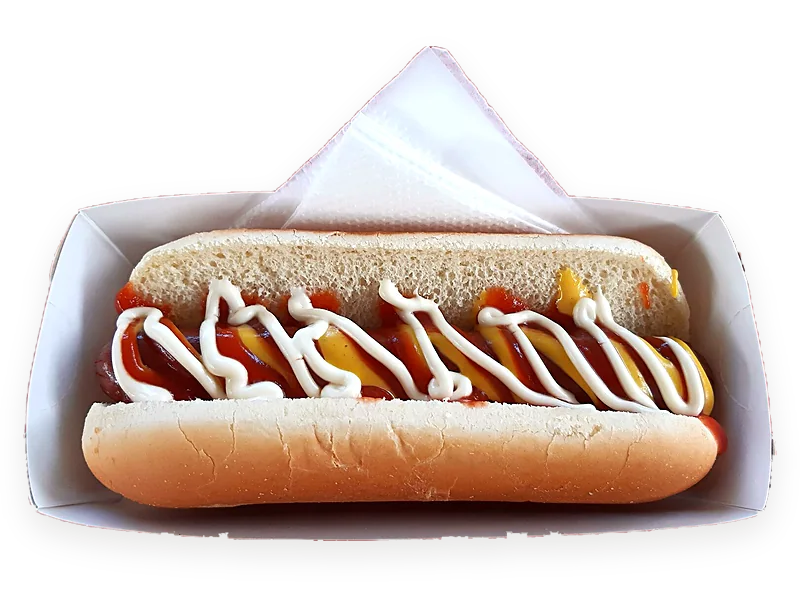
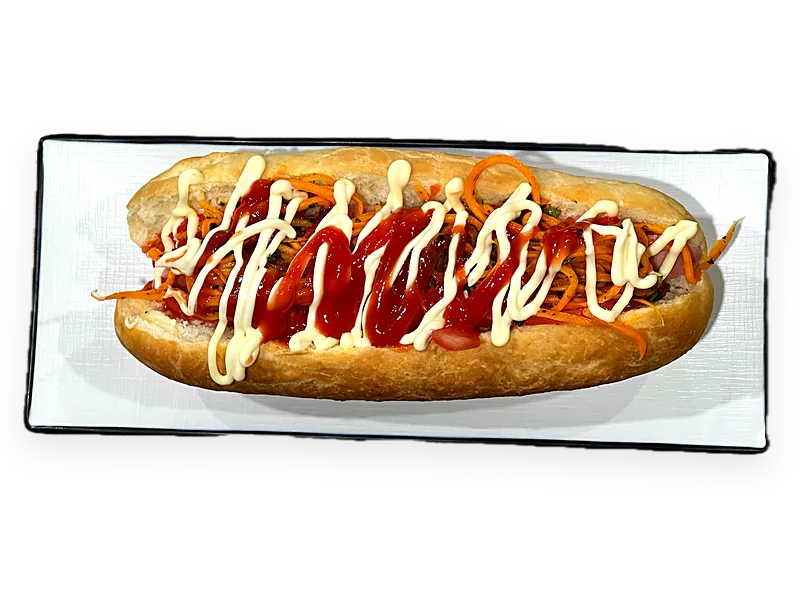
Hot-dog 2 ta rasm (surib ko'rish), rasmni bosganda kattalashadi, osh rasmi tovog'i bilan
Claude-Session: https://claude.ai/code/session_01YBhqNhXRUafQR9ABuiBpkF

diff --git a/app.js b/app.js
@@ -66,9 +66,12 @@
 
   function cardHTML(item) {
     const qty = cart[item.id] || 0;
-    const img = item.image
-      ? `<img src="${esc(item.image)}" alt="${esc(tx(item.name))}" loading="lazy" decoding="async" onload="this.classList.add('loaded')" onerror="this.replaceWith(Object.assign(document.createElement('div'),{className:'ph',textContent:'🍽'}))">`
-      : placeholder(item);
+    const pics = photos(item);
+    const one = (src) => `<img src="${esc(src)}" alt="${esc(tx(item.name))}" loading="lazy" decoding="async" onload="this.classList.add('loaded')" onerror="this.replaceWith(Object.assign(document.createElement('div'),{className:'ph',textContent:'🍽'}))">`;
+    // several photos -> swipeable strip with dots; tapping any photo opens the full-screen viewer
+    const img = !pics.length ? placeholder(item)
+      : pics.length === 1 ? one(pics[0])
+      : `<div class="slides">${pics.map(one).join("")}</div><div class="dots">${pics.map((_, i) => `<i${i ? "" : ' class="on"'}></i>`).join("")}</div>`;
     // show the Korean name as a second line for non-Korean readers (helps when ordering by phone)
     const alt = lang === "ko" ? item.name.en : item.name.ko;
     return `<article class="card${qty ? " in-cart" : ""}" data-id="${item.id}">
@@ -88,6 +91,8 @@
   function readyText(m) {
     return m >= 60 && m % 60 === 0 ? `${m / 60} ${t("hours")}` : `${m} ${t("min")}`;
   }
+
+  const photos = (item) => item.images || (item.image ? [item.image] : []);
 
   function controlHTML(id, qty) {
     return qty
@@ -224,6 +229,14 @@
     if (btn) { change(btn.dataset.id, btn.dataset.act === "inc" ? 1 : -1); return; }
     const langBtn = e.target.closest("[data-lang]");
     if (langBtn) { setLang(langBtn.dataset.lang); return; }
+    const thumb = e.target.closest(".thumb");
+    if (thumb && thumb.querySelector("img")) {
+      const pics = photos(itemById(thumb.closest(".card").dataset.id));
+      const slides = thumb.querySelector(".slides");
+      openViewer(pics, slides ? Math.round(slides.scrollLeft / slides.clientWidth) : 0, tx(itemById(thumb.closest(".card").dataset.id).name));
+      return;
+    }
+    if (e.target.closest("#viewer")) { closeViewer(); return; }
     const desc = e.target.closest(".desc");
     if (desc) desc.closest(".card").classList.toggle("open");
   });
@@ -232,7 +245,32 @@
   $("#sheet-close").addEventListener("click", closeSheet);
   $("#sheet-backdrop").addEventListener("click", closeSheet);
   $("#clear-cart").addEventListener("click", () => { cart = {}; store.set(CART_KEY, "{}"); render(); closeSheet(); });
-  document.addEventListener("keydown", (e) => { if (e.key === "Escape") closeSheet(); });
+  document.addEventListener("keydown", (e) => { if (e.key === "Escape") { closeSheet(); closeViewer(); } });
+
+  // keep the dots under a photo strip in step with swiping
+  document.addEventListener("scroll", (e) => {
+    const s = e.target;
+    if (!s.classList || !s.classList.contains("slides")) return;
+    const i = Math.round(s.scrollLeft / s.clientWidth);
+    s.nextElementSibling.querySelectorAll("i").forEach((d, k) => d.classList.toggle("on", k === i));
+  }, true);
+
+  /* ---------- full-screen photo viewer ---------- */
+  function openViewer(pics, start, title) {
+    const v = $("#viewer");
+    v.innerHTML = `<button class="v-close" aria-label="Close">✕</button><div class="v-strip">${pics
+      .map((p) => `<div class="v-pic"><img src="${esc(p)}" alt=""></div>`).join("")}</div><div class="v-title">${esc(title)}${
+      pics.length > 1 ? ` · ${pics.length} 📷` : ""}</div>`;
+    v.hidden = false; document.body.classList.add("lock");
+    const strip = $(".v-strip", v);
+    requestAnimationFrame(() => { strip.scrollLeft = start * strip.clientWidth; v.classList.add("open"); });
+  }
+  function closeViewer() {
+    const v = $("#viewer");
+    if (v.hidden) return;
+    v.classList.remove("open"); document.body.classList.remove("lock");
+    setTimeout(() => { v.hidden = true; v.innerHTML = ""; }, 250);
+  }
 
   // swipe the sheet down to close
   let startY = null;

diff --git a/style.css b/style.css
@@ -211,3 +211,26 @@ main { max-width: 1100px; margin: 0 auto; padding: 0 16px; }
 @media (prefers-reduced-motion: reduce) {
   *, *::before, *::after { animation: none !important; transition: none !important; }
 }
+
+/* ---------- photo strip (several photos per dish) ---------- */
+.thumb { cursor: zoom-in; }
+.slides { position: relative; z-index: 1; display: flex; width: 100%; height: 100%; overflow-x: auto; scroll-snap-type: x mandatory; scrollbar-width: none; }
+.slides::-webkit-scrollbar { display: none; }
+.slides img { flex: 0 0 100%; scroll-snap-align: center; }
+.dots { position: absolute; z-index: 2; left: 0; right: 0; bottom: 6px; display: flex; justify-content: center; gap: 5px; pointer-events: none; }
+.dots i { width: 6px; height: 6px; border-radius: 50%; background: rgba(42, 32, 23, .25); transition: all .2s; }
+.dots i.on { width: 16px; border-radius: 9px; background: var(--turq); }
+
+/* ---------- full-screen photo viewer ---------- */
+.viewer { position: fixed; inset: 0; z-index: 80; background: rgba(20, 14, 8, .92); display: flex; flex-direction: column; justify-content: center;
+  opacity: 0; transition: opacity .25s; }
+.viewer.open { opacity: 1; }
+.viewer[hidden] { display: none; }
+.v-strip { display: flex; overflow-x: auto; scroll-snap-type: x mandatory; scrollbar-width: none; }
+.v-strip::-webkit-scrollbar { display: none; }
+.v-pic { flex: 0 0 100%; scroll-snap-align: center; display: grid; place-items: center; padding: 0 12px; }
+.v-pic img { width: 100%; max-width: 900px; max-height: 78vh; object-fit: contain; transform: scale(.94); transition: transform .3s cubic-bezier(.2, .8, .2, 1); }
+.viewer.open .v-pic img { transform: none; }
+.v-title { text-align: center; color: #F6EBD6; font-weight: 800; font-size: 17px; margin-top: 14px; padding: 0 16px; }
+.v-close { position: absolute; top: calc(14px + env(safe-area-inset-top, 0px)); right: 14px; width: 42px; height: 42px; border-radius: 50%;
+  background: rgba(255, 255, 255, .15); color: #fff; font-size: 20px; }

diff --git a/index.html b/index.html
@@ -117,6 +117,7 @@
   </section>
 
   <div id="toast" class="toast"></div>
+  <div id="viewer" class="viewer" hidden></div>
 
   <script src="app.js"></script>
 </body>
